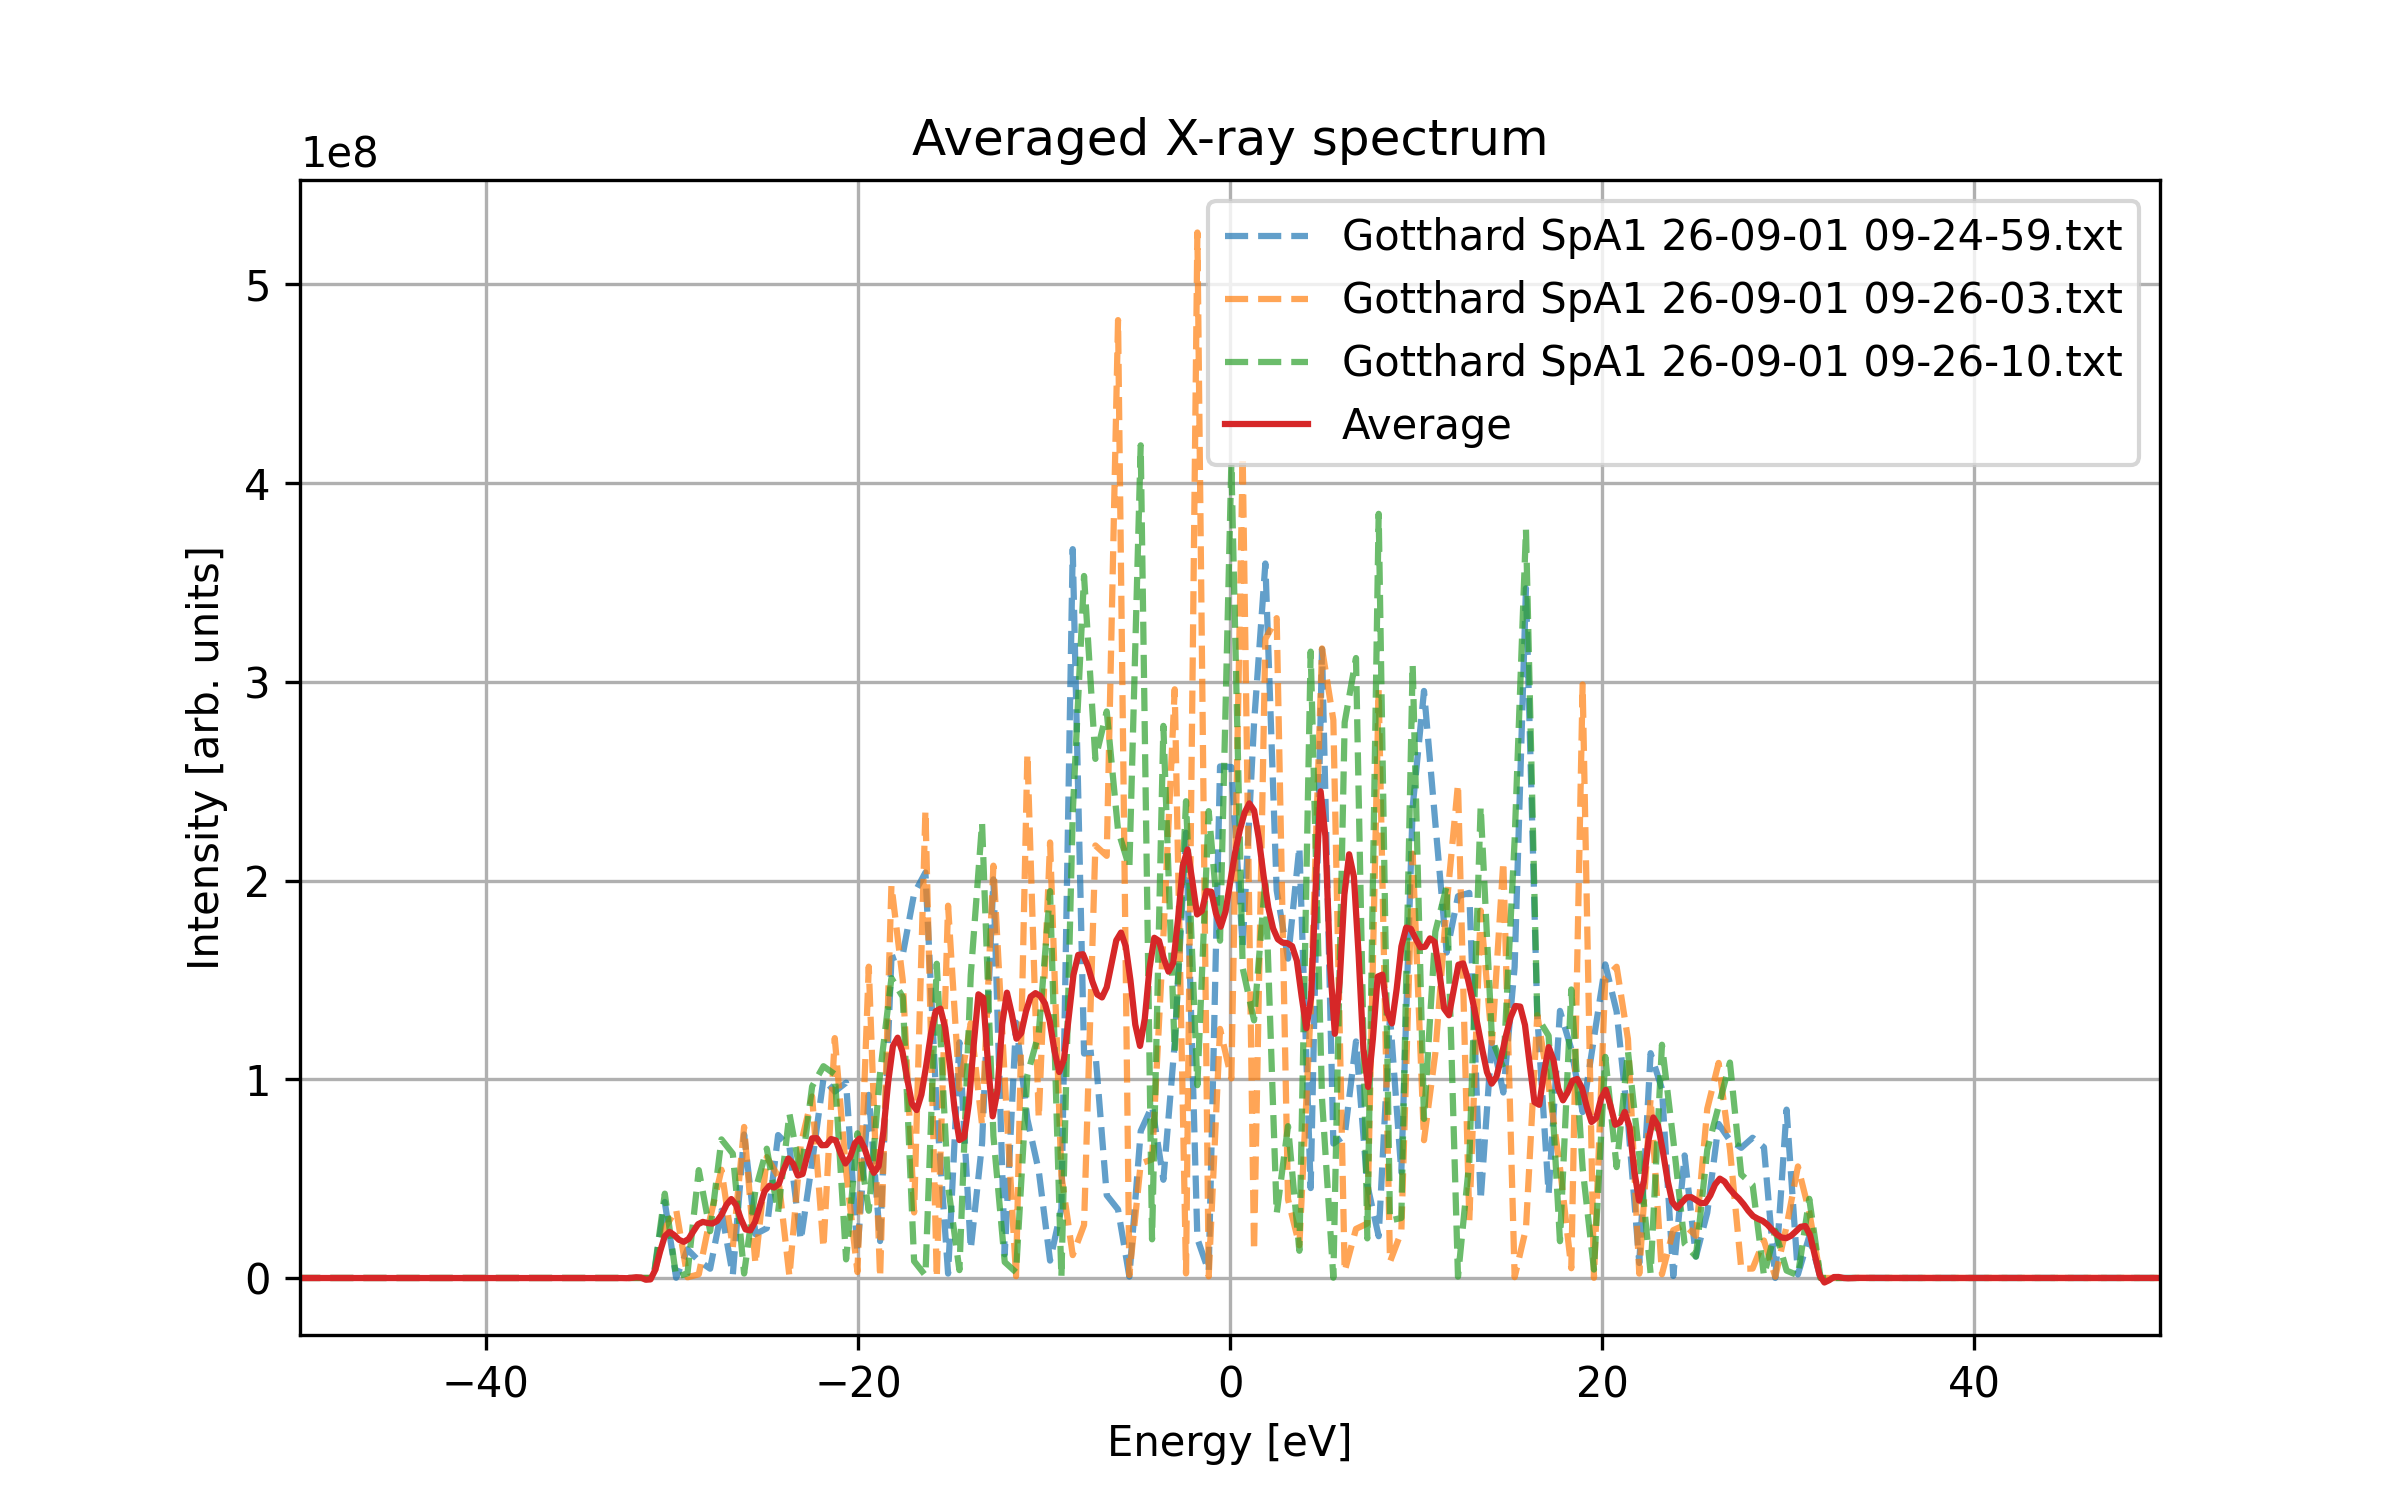
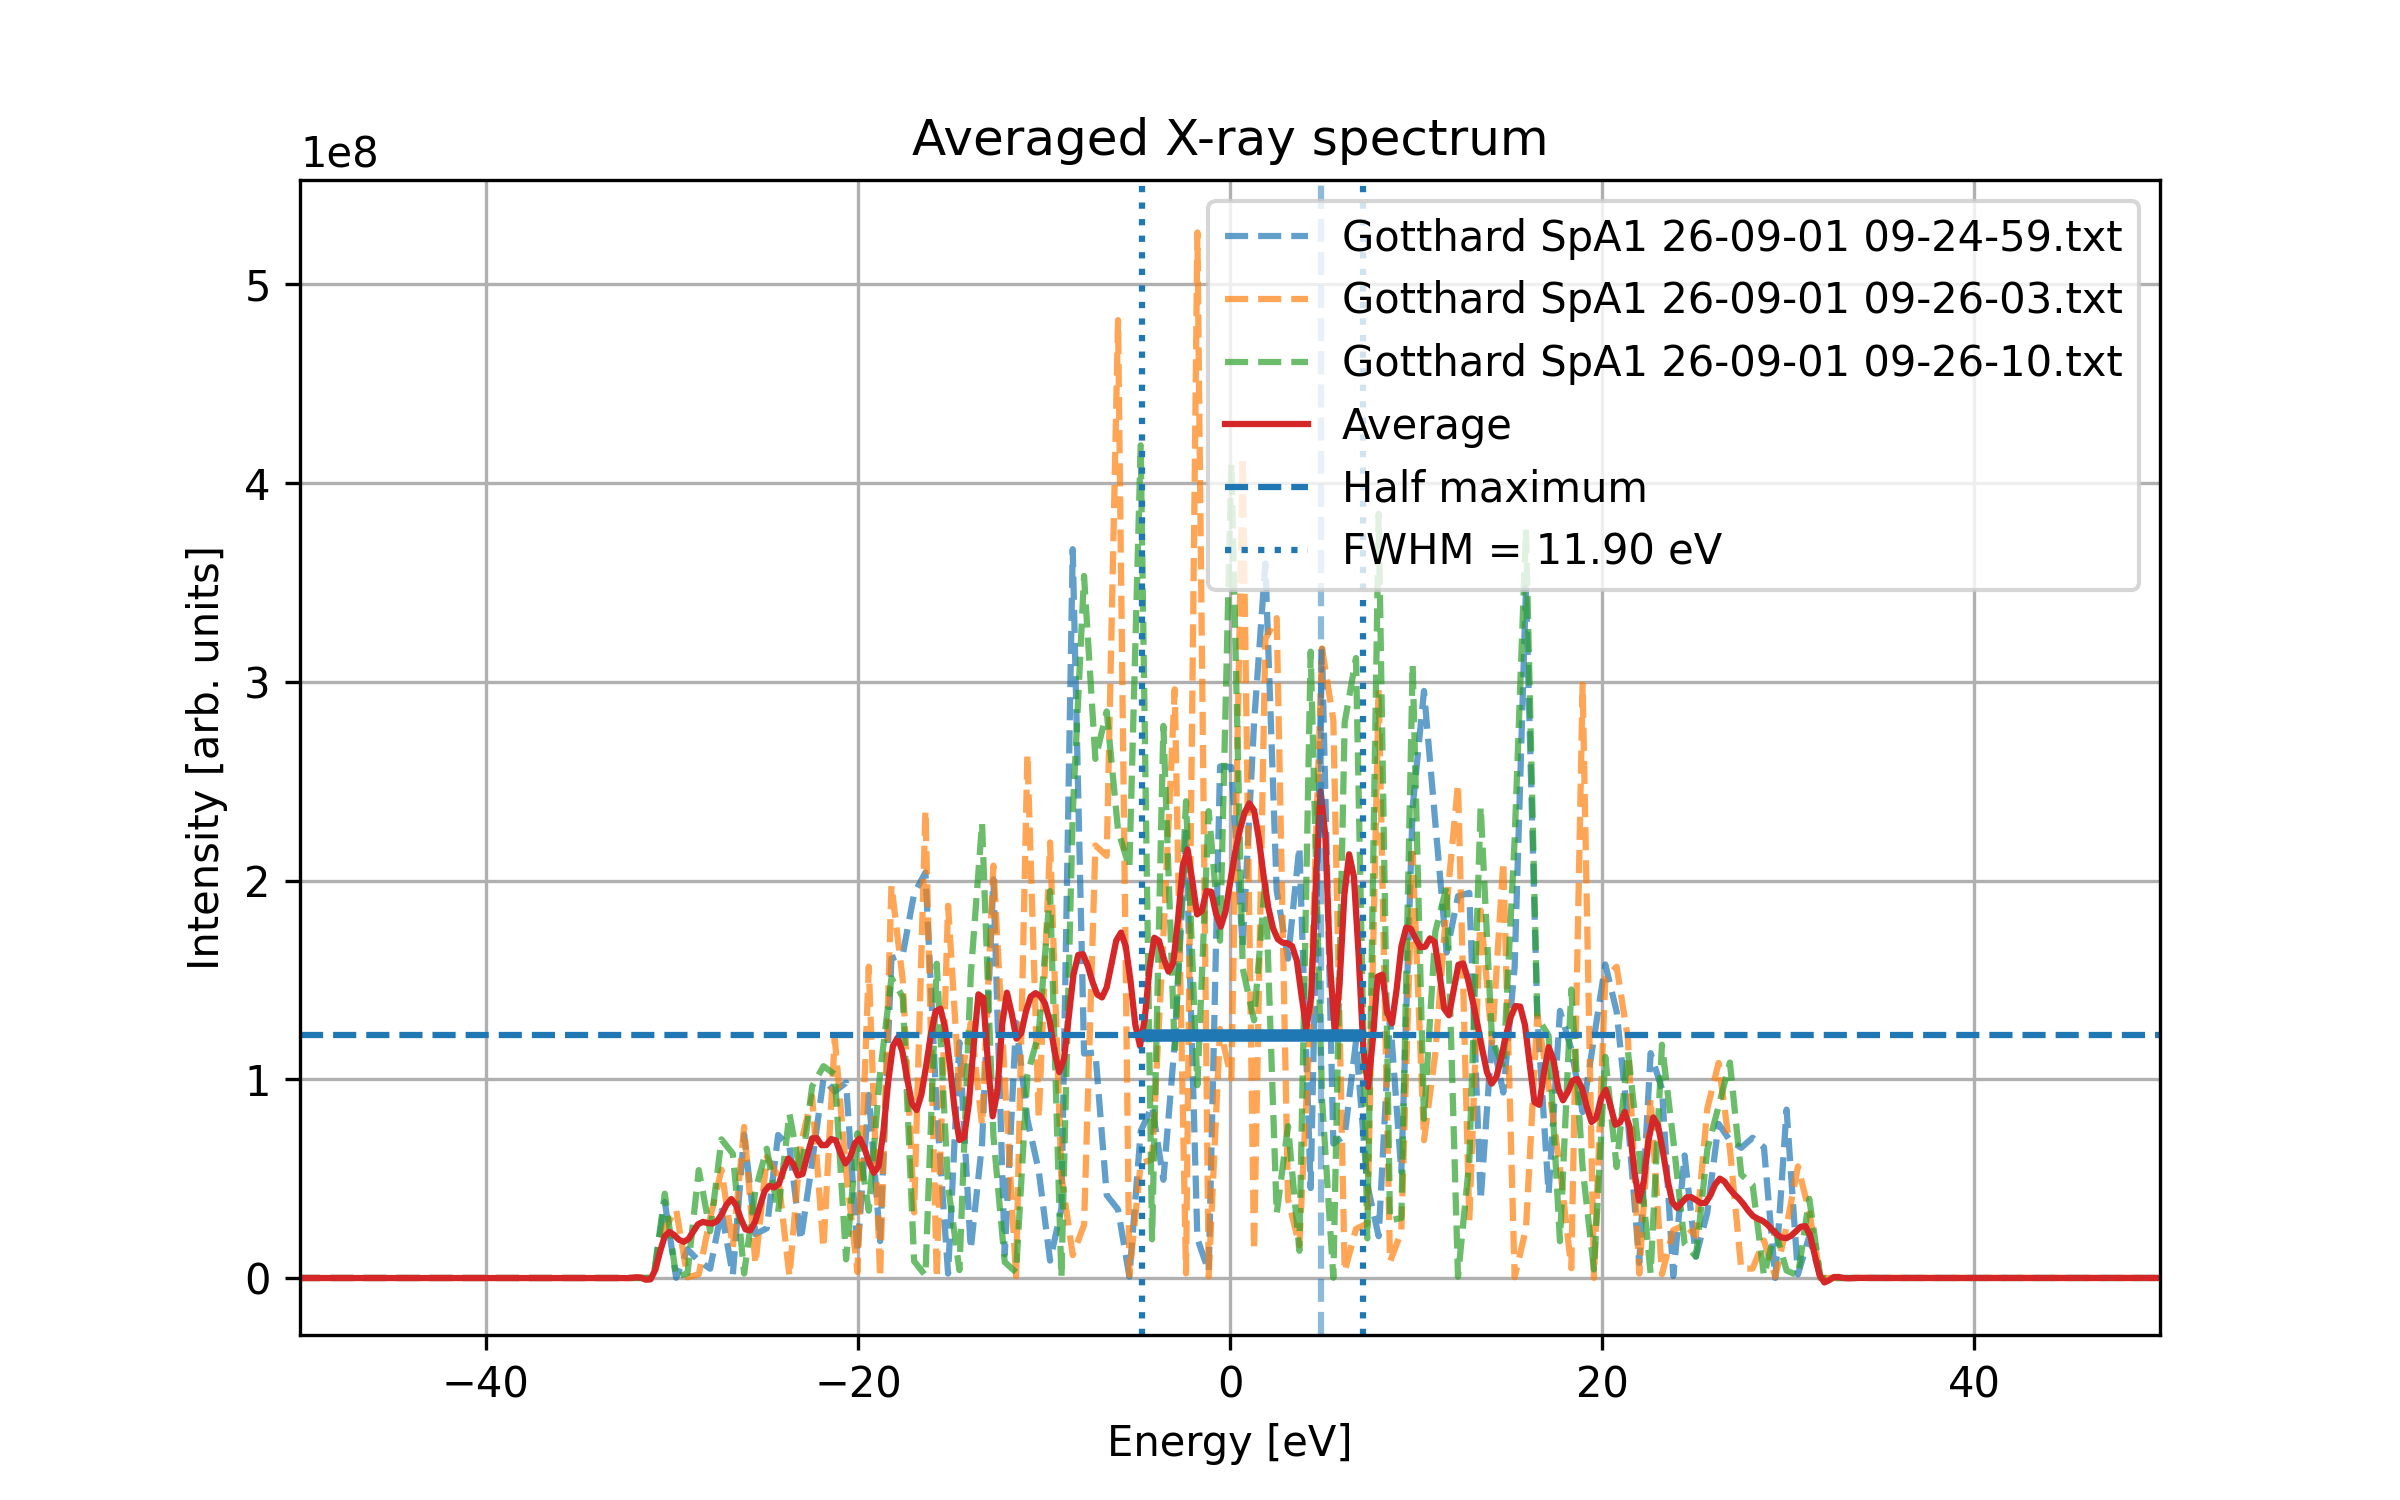
spectrum analysis FWHM update

diff --git a/P6/Daten/Alignment and characterization/mono pink/spectrum/spectrum_analysis.py b/P6/Daten/Alignment and characterization/mono pink/spectrum/spectrum_analysis.py
@@ -19,7 +19,7 @@ from scipy.interpolate import interp1d
 from pathlib import Path
 import pandas as pd
 
-folder = Path("Daten/Alignment and characterization/mono pink/spectrum/spektrum_data/spektrum_data_mono")
+folder = Path("Daten/Alignment and characterization/mono pink/spectrum/spektrum_data_pink")
 
 files = sorted(folder.glob("*"))   # all files in folder
 
@@ -94,12 +94,86 @@ plt.plot(
     label="Average"
 )
 
+# FWHM
+
+# Maximum of averaged spectrum
+i_max = np.argmax(y_average)
+
+E_peak = energy_grid[i_max]
+I_max = y_average[i_max]
+
+# Half maximum
+I_half = I_max / 2
+
+# Find left crossing
+left_indices = np.where(y_average[:i_max] < I_half)[0]
+
+# Find right crossing
+right_indices = np.where(y_average[i_max:] < I_half)[0]
+
+if len(left_indices) > 0 and len(right_indices) > 0:
+
+    i_left = left_indices[-1]
+    i_right = i_max + right_indices[0]
+
+    # Interpolate between points to get more accurate crossings
+    E_left = np.interp(
+        I_half,
+        [y_average[i_left], y_average[i_left + 1]],
+        [energy_grid[i_left], energy_grid[i_left + 1]]
+    )
+
+    E_right = np.interp(
+        I_half,
+        [y_average[i_right - 1], y_average[i_right]],
+        [energy_grid[i_right - 1], energy_grid[i_right]]
+    )
+
+    FWHM = E_right - E_left
+
+    print(f"Peak energy: {E_peak + E_0:.2f} eV")
+    print(f"FWHM: {FWHM:.2f} eV")
+
+else:
+    print("Could not determine FWHM.")
+
+# FWHM lines
+plt.axhline(
+    I_half,
+    linestyle='--',
+    label=f"Half maximum"
+)
+
+plt.axvline(
+    E_left,
+    linestyle=':',
+    label=f"FWHM = {FWHM:.2f} eV"
+)
+
+plt.axvline(
+    E_right,
+    linestyle=':'
+)
+
+plt.axvline(
+    E_peak,
+    linestyle='--',
+    alpha=0.5
+)
+
+# Horizontal line showing actual FWHM width
+plt.hlines(
+    I_half,
+    E_left,
+    E_right,
+    linewidth=3
+)
 plt.xlabel("Energy [eV]")
 plt.ylabel("Intensity [arb. units]")
 plt.title("Averaged X-ray spectrum")
 plt.grid(True)
 plt.xlim(-50, 50)
 plt.legend()
-plt.savefig("Daten/Alignment and characterization/mono pink/spectrum/spectrum_average_mono.png", dpi=300)
+plt.savefig("Daten/Alignment and characterization/mono pink/spectrum/spectrum_average.png", dpi=300)
 
 plt.show()

diff --git a/P6/Tag 1 - Alignment and Characterization of the X-ray Beam.md b/P6/Tag 1 - Alignment and Characterization of the X-ray Beam.md
@@ -87,7 +87,4 @@
 			4: 0.4 C
 		![[Pasted image 20260901102648.png]]
 		$F=\frac{R}{2N\delta}$ 
-		wir haben $F=$
-		$N=1+6+9=16$
-		$R=0,5+1,5+1,0=3$
-		$\delta$ very small so?
+		
